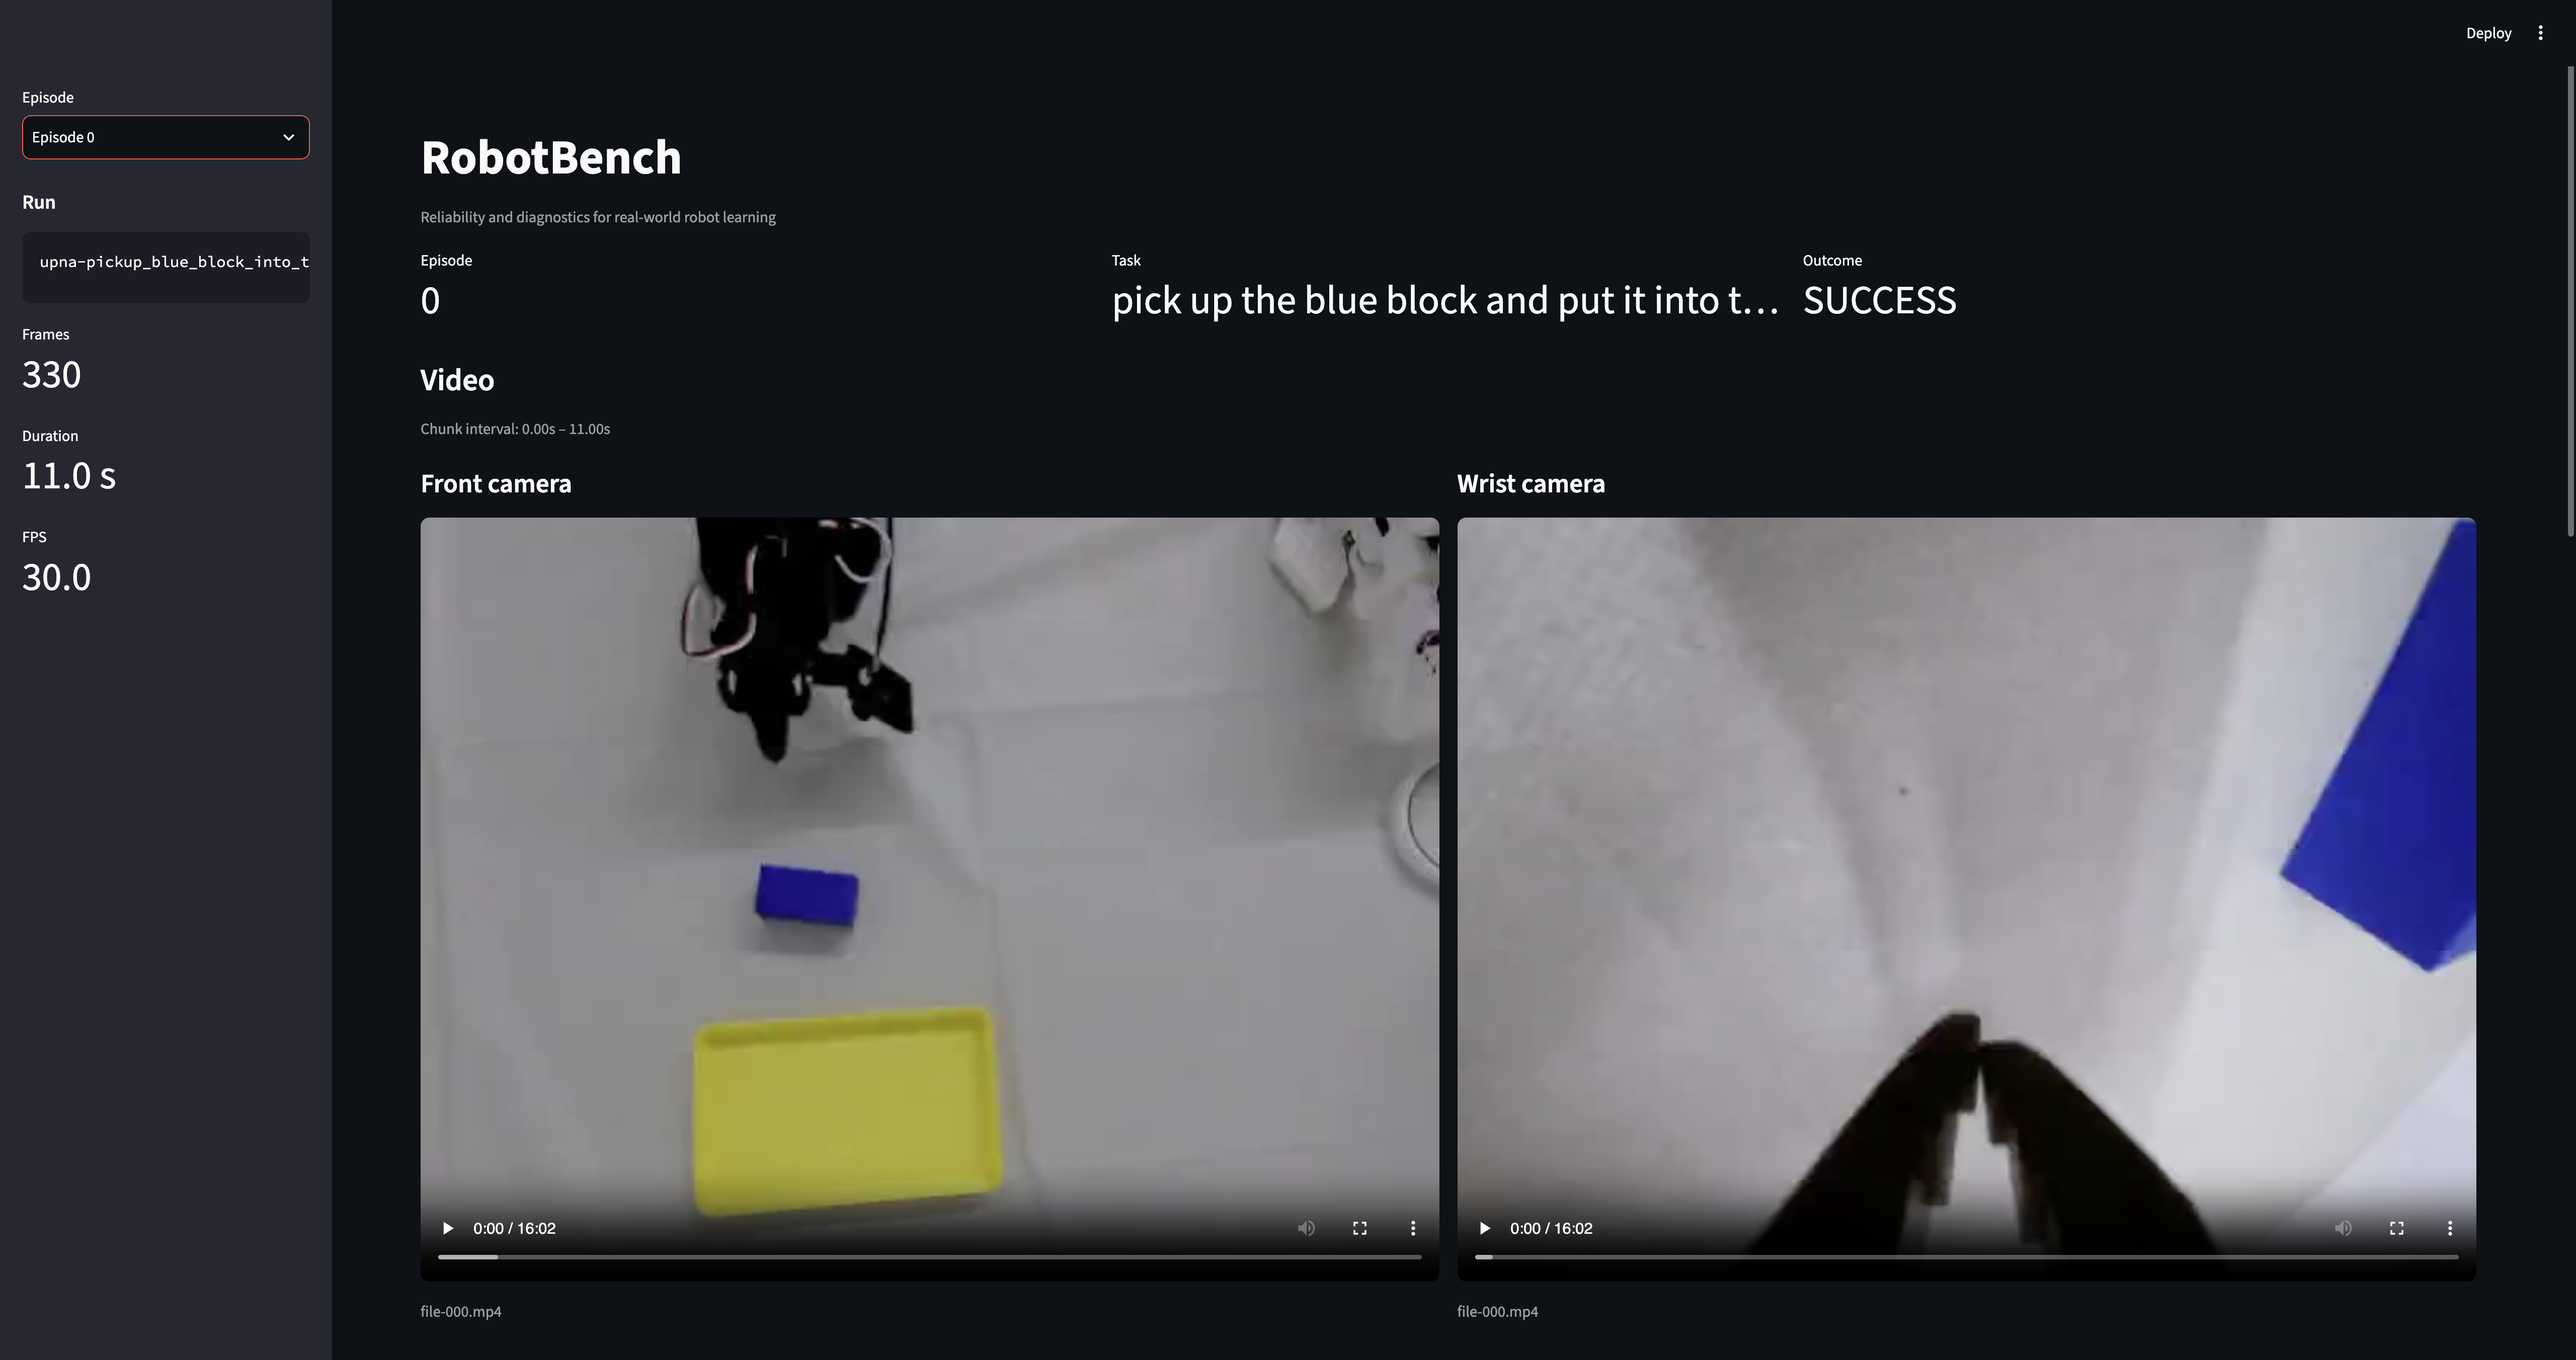
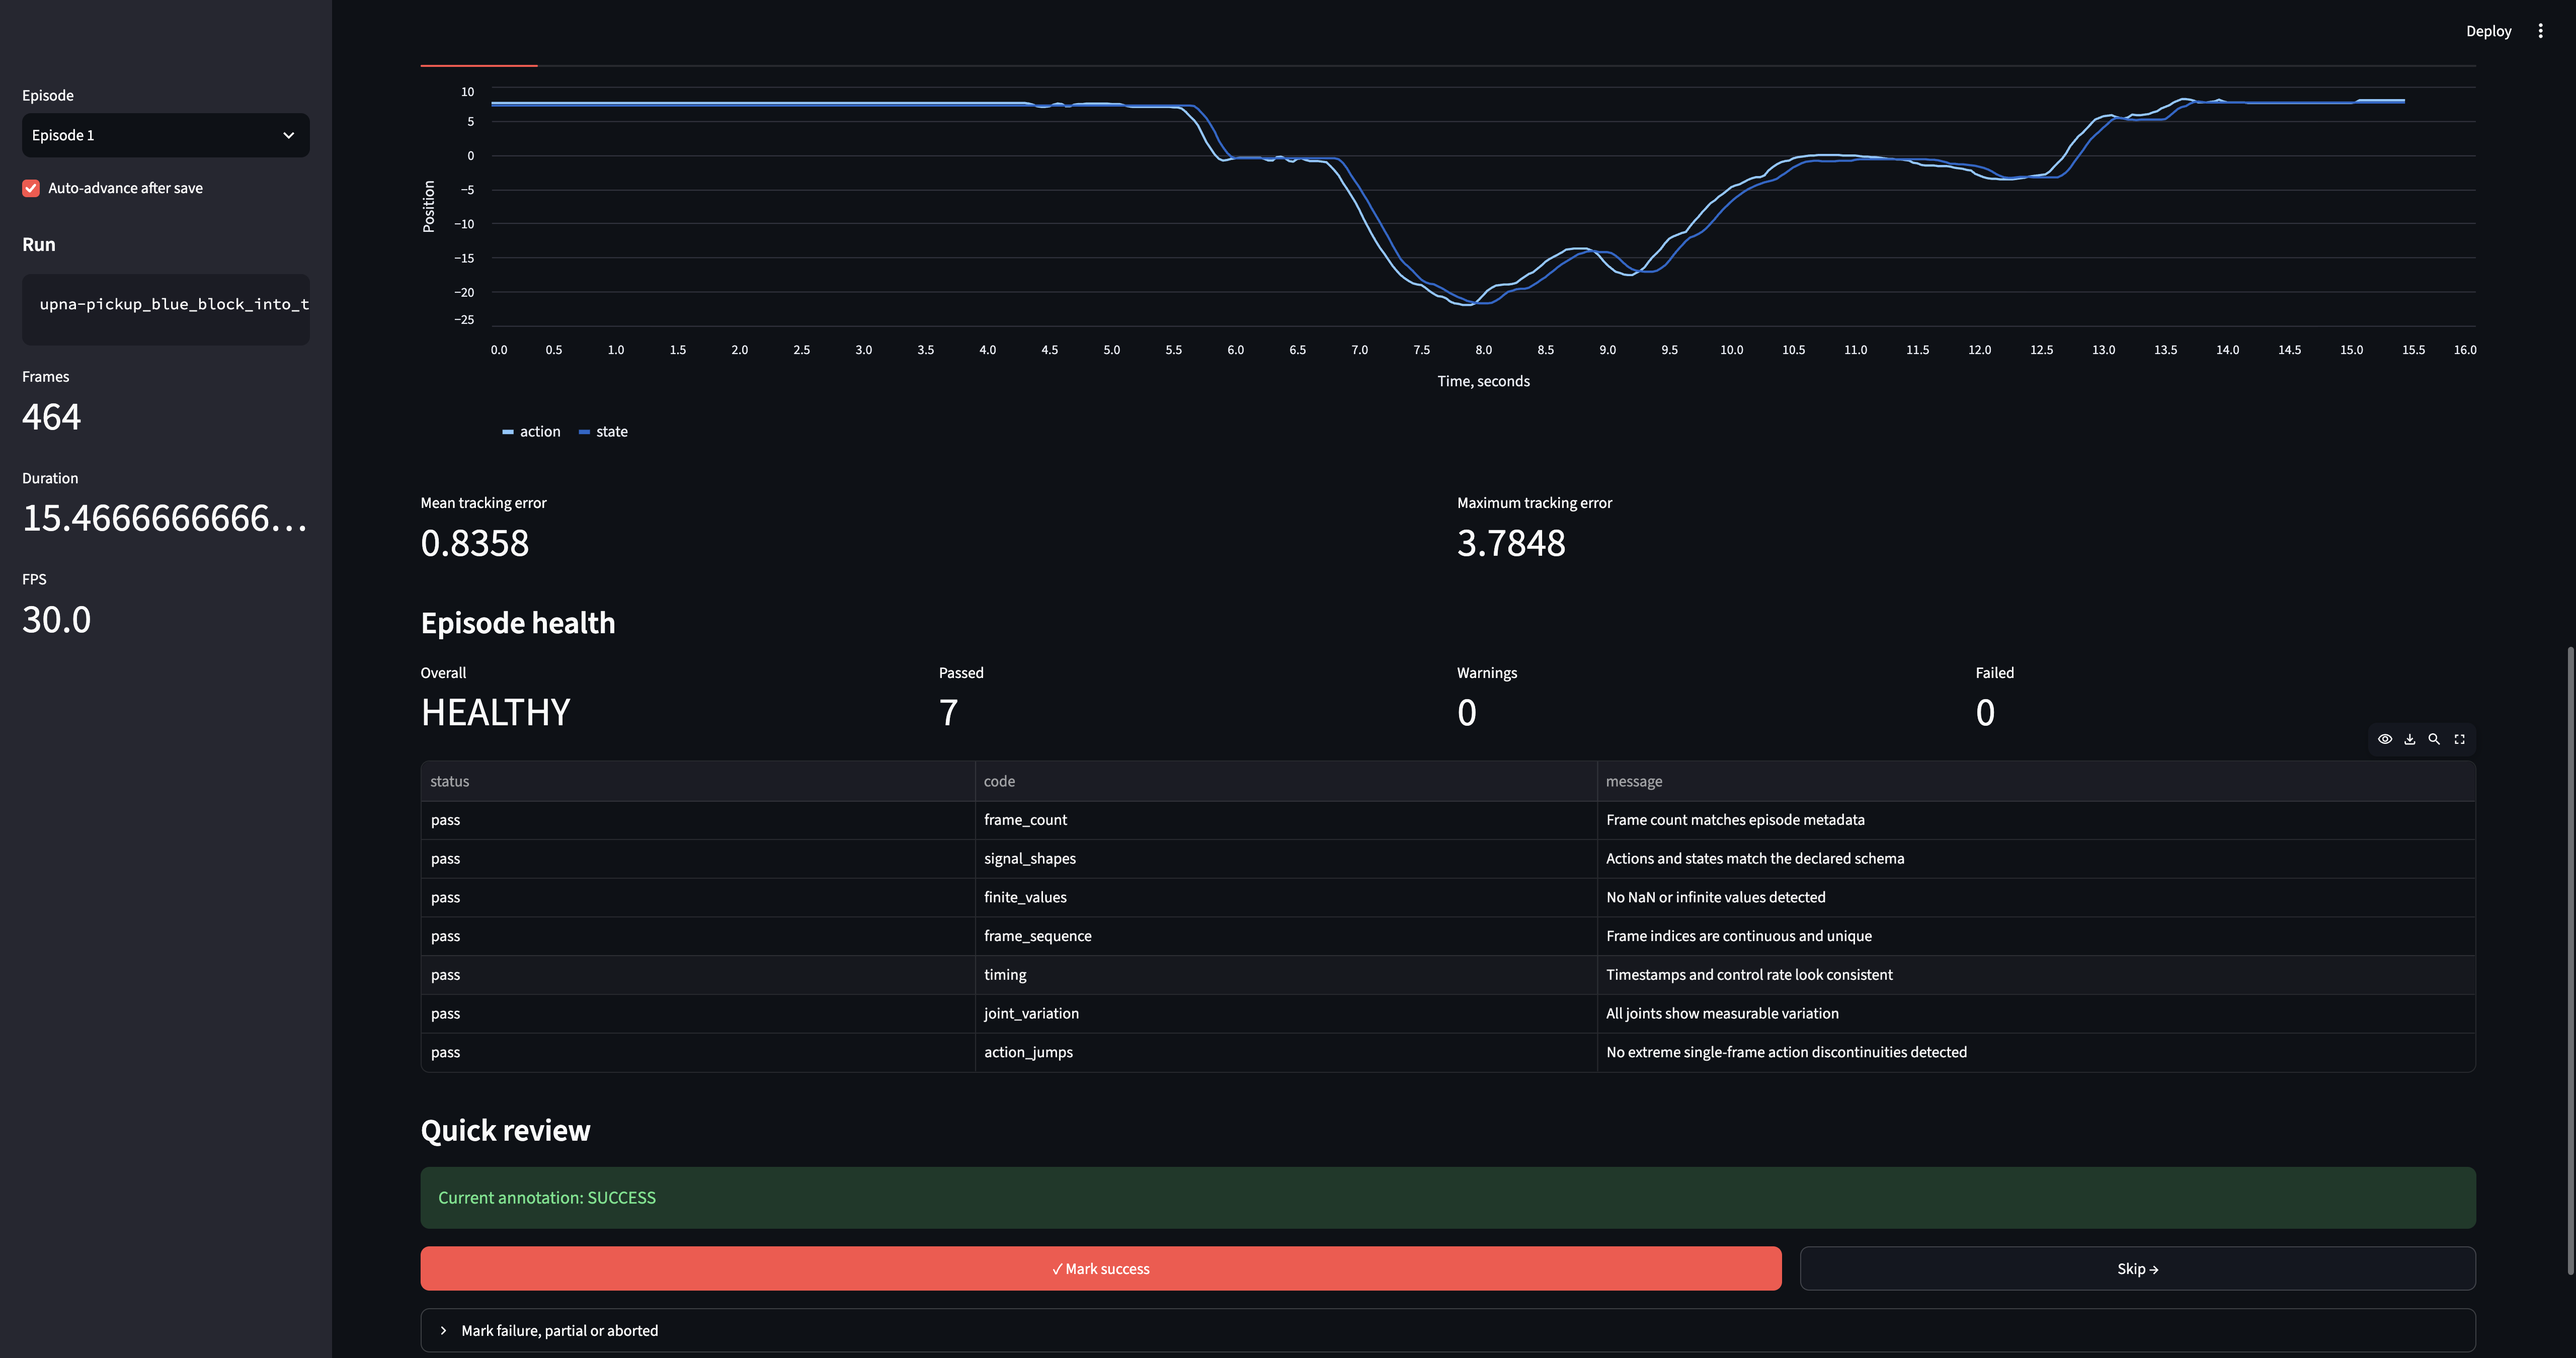
docs: describe quick episode review workflow

diff --git a/docs/index.html b/docs/index.html
@@ -661,10 +661,11 @@
 
             <article class="card">
               <div class="card-icon">03</div>
-              <h3>Outcome annotations</h3>
+              <h3>Fast outcome review</h3>
               <p>
-                Mark success, failure, partial completion, failure mode, task
-                phase, timestamp and annotation confidence.
+                Mark successful episodes with one click, add failure details
+                only when needed, and automatically continue to the next
+                episode.
               </p>
             </article>
 
@@ -684,7 +685,11 @@
         <div class="container">
           <div class="section-header">
             <div class="section-label">Episode Review</div>
-            <h2>See what happened, not just a success rate.</h2>
+            <p class="section-description">
+              Review video and robot signals, confirm the outcome with one
+              click, and move through large episode collections without writing
+              annotation commands manually.
+            </p>
           </div>
 
           <div class="screenshot-frame">

diff --git a/README.md b/README.md
@@ -97,6 +97,18 @@ The local Streamlit interface provides:
 - health-check results;
 - outcome annotation editing.
 
+The review workflow supports:
+
+- one-click success annotation;
+- compact failure annotation;
+- optional failure timestamp;
+- automatic saving;
+- automatic navigation to the next episode;
+- editing existing annotations.
+
+The current version streamlines human review but does not yet
+automatically infer task success from video.
+
 ## Quick start
 
 ### Requirements
